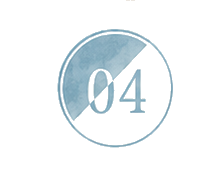
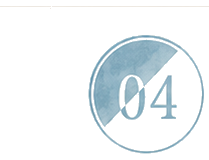
Fix: キャラクター追加・レイアウト修正・素材更新
- キャラクター画像（水色髪・白和装・寝ポーズ）をヒーローセクションに追加
- value-prop グリッドのズレを修正（repeat(3,1fr)→1fr auto 1fr auto 1fr）
- 全アイコン・バッジ・数字素材を新シートの高品質正方形版に差し替え
- こんな方へセクションのアイコンを業種に合ったサービスアイコンに変更
- object-fit:contain を追加しアスペクト比崩れを防止

diff --git a/index.html b/index.html
@@ -343,45 +343,24 @@
     .hero-inner {
       max-width: 1100px;
       margin: 0 auto;
-      padding: 80px 24px;
+      padding: 60px 24px 0;
       position: relative;
       z-index: 1;
       display: grid;
-      grid-template-columns: 1fr 280px;
-      gap: 40px;
-      align-items: center;
+      grid-template-columns: 1fr minmax(0, 480px);
+      gap: 32px;
+      align-items: end;
     }
 
     .hero-content {
-      /* テキスト側 */
+      padding-bottom: 48px;
     }
 
-    /* キャラクタープレースホルダー（画像準備後にimgタグに差し替え） */
-    .hero-character-placeholder {
-      width: 260px;
-      height: 380px;
-      border: 2px dashed var(--color-main);
-      border-radius: 20px;
-      background: rgba(214, 238, 245, 0.3);
-      display: flex;
-      align-items: center;
-      justify-content: center;
-      flex-shrink: 0;
-      position: relative;
-    }
-
-    .char-placeholder-inner {
-      text-align: center;
-      color: var(--color-deep);
-    }
-
-    .char-placeholder-inner p {
-      font-family: var(--font-sans);
-      font-size: 0.78rem;
-      font-weight: 300;
-      color: var(--color-deep);
-      line-height: 1.8;
-      margin-top: 8px;
+    .hero-character {
+      width: 100%;
+      height: auto;
+      display: block;
+      filter: drop-shadow(0 8px 32px rgba(139,184,200,0.22));
     }
 
     /* ヒーロー最上部のサービスラベル */
@@ -647,8 +626,8 @@
       max-width: 1100px;
       margin: 0 auto;
       display: grid;
-      grid-template-columns: repeat(3, 1fr);
-      gap: 24px;
+      grid-template-columns: 1fr auto 1fr auto 1fr;
+      gap: 0;
     }
 
     .value-prop-item {
@@ -765,6 +744,7 @@
       height: 64px;
       display: block;
       margin-bottom: 18px;
+      object-fit: contain;
       mix-blend-mode: multiply;
     }
 
@@ -818,6 +798,7 @@
       width: 52px;
       height: 52px;
       flex-shrink: 0;
+      object-fit: contain;
       mix-blend-mode: multiply;
     }
 
@@ -1264,6 +1245,7 @@
       height: 58px;
       display: block;
       flex-shrink: 0;
+      object-fit: contain;
       position: relative;
       z-index: 1;
       mix-blend-mode: multiply;
@@ -1696,13 +1678,16 @@
         grid-template-columns: 1fr;
       }
 
-      .hero-character-placeholder {
+      .hero-character {
         display: none;
       }
 
       .value-prop-inner {
         grid-template-columns: 1fr;
         gap: 0;
+      }
+      .value-prop-section {
+        padding: 40px 16px;
       }
 
       .value-prop-divider {
@@ -1733,7 +1718,12 @@
       }
 
       .hero-inner {
-        padding: 60px 0;
+        padding: 60px 24px;
+        grid-template-columns: 1fr;
+      }
+
+      .hero-content {
+        padding-bottom: 60px;
       }
 
       .hero-deco-1 {
@@ -2085,13 +2075,11 @@
           </div>
         </div>
 
-        <!-- 修正4: キャラクタープレースホルダー（画像準備後にimgタグに差し替え） -->
-        <div class="hero-character-placeholder fade-in fade-in-delay-3" aria-hidden="true">
-          <!-- 水色髪・白和装のaiuegoキャラクター -->
-          <div class="char-placeholder-inner">
-            <p>キャラクター<br>準備中</p>
-          </div>
-        </div>
+        <!-- キャラクター -->
+        <img class="hero-character fade-in fade-in-delay-3"
+             src="assets/character.png"
+             alt="aiuego キャラクター — 水色髪・白和装でPCに向かうイラスト"
+             width="960" height="665" loading="eager">
       </div>
     </section>
 
@@ -2130,8 +2118,7 @@
 
         <div class="target-grid">
           <div class="target-card fade-in fade-in-delay-1">
-            <img class="target-icon" src="assets/badges/num-01.png" alt="" aria-hidden="true" width="64" height="64">
-            <!-- 修正9: 「5件」を業種ラベルに変更 -->
+            <img class="target-icon" src="assets/icons/icon-pen.png" alt="" aria-hidden="true" width="64" height="64">
             <p class="target-card-title">サロン・美容室・カメラマン</p>
             <p class="target-card-desc">
               予約やお問い合わせを増やしたい。<br>
@@ -2141,7 +2128,7 @@
           </div>
 
           <div class="target-card fade-in fade-in-delay-2">
-            <img class="target-icon" src="assets/badges/num-02.png" alt="" aria-hidden="true" width="64" height="64">
+            <img class="target-icon" src="assets/icons/icon-shield.png" alt="" aria-hidden="true" width="64" height="64">
             <p class="target-card-title">工務店・士業・コンサル</p>
             <p class="target-card-desc">
               信頼感のある会社情報ページで<br>
@@ -2151,7 +2138,7 @@
           </div>
 
           <div class="target-card fade-in fade-in-delay-3">
-            <img class="target-icon" src="assets/badges/num-03.png" alt="" aria-hidden="true" width="64" height="64">
+            <img class="target-icon" src="assets/icons/icon-chat.png" alt="" aria-hidden="true" width="64" height="64">
             <p class="target-card-title">VTuber・配信者・クリエイター</p>
             <p class="target-card-desc">
               活動拠点となるポートフォリオや<br>
@@ -2161,7 +2148,7 @@
           </div>
 
           <div class="target-card fade-in fade-in-delay-4">
-            <img class="target-icon" src="assets/badges/num-04.png" alt="" aria-hidden="true" width="64" height="64">
+            <img class="target-icon" src="assets/icons/icon-web.png" alt="" aria-hidden="true" width="64" height="64">
             <p class="target-card-title">新規サービスのLP・起業準備</p>
             <p class="target-card-desc">
               まず名刺がわりの1枚を持ちたい。<br>
